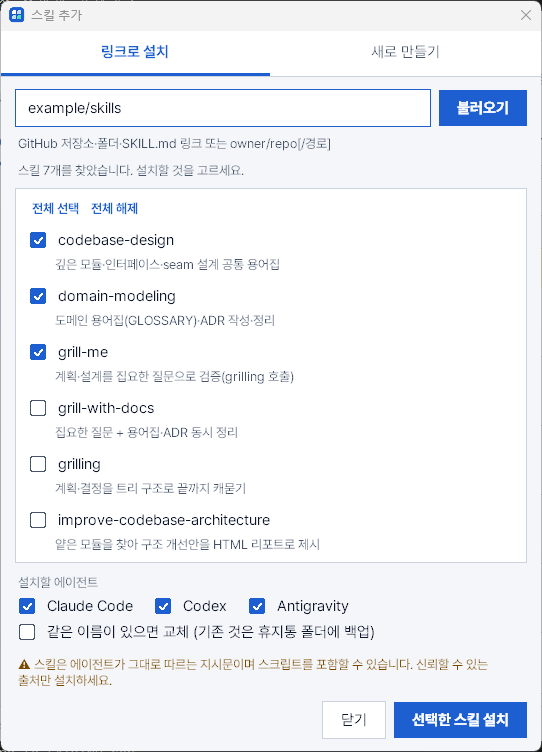
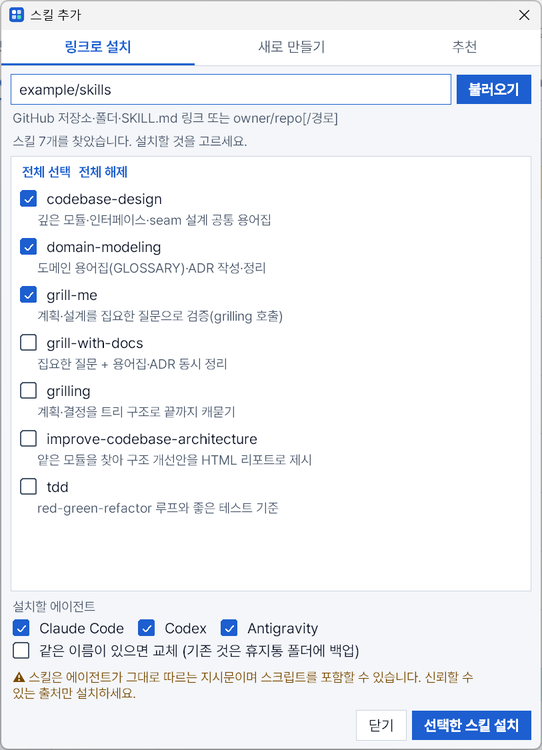
Docs: 추천 탭 설명과 스크린샷 추가
- README 기능 표와 사용 방법에 추천 탭을 적고, 라이트·다크 화면을 넣었다
- 개발 문서에 추천 목록을 새로 받는 방법과 거르는 기준, 테스트 파일을 적었다
- make_screenshots.py가 추천 탭을 찍고, 탭이 세 개가 된 링크로 설치·새로 만들기 화면을 다시 찍었다

diff --git a/docs/make_screenshots.py b/docs/make_screenshots.py
@@ -194,7 +194,15 @@ def main() -> None:
             dlg.name.set("release-notes")
             dlg.desc.set("Write release notes from merged pull requests")
             shot(dlg.win, "add-new")
+            dlg.show("추천")  # the bundled skills.sh snapshot; the demo skills above that it lists show as installed
+            shot(dlg.win, "add-recommended")
             dlg.close()
+            app.toggle_theme()
+            app.add_dialog()
+            app.dialog.show("추천")
+            shot(app.dialog.win, "add-recommended-dark")
+            app.dialog.close()
+            app.toggle_theme()
 
             grilling = next(x for x in app.data["Claude Code"] if x["name"] == "grilling")
             app.detail(grilling)

diff --git a/AGENTS.md b/AGENTS.md
@@ -33,6 +33,7 @@
 | 링크 해석, git 받기, 설치·업데이트·삭제·생성 | `skill_manager.py` |
 | Windows/macOS 차이(링크, 파일 열기, 글꼴, 화면 영역) | `platform_support.py` |
 | 카테고리 정의, 스킬별 한국어 설명 | `skill_categories.json`, `skill_notes.json` |
+| 추천 탭의 목록(읽기 `load_recommended`, 새로 만들기 `tools/update_recommend.py`) | `skill_manager.py`, `skill_recommend.json` |
 | 시작 메뉴 / macOS 앱 등록 | `install.py` |
 | 테스트 | `test_manager.py`(로직), `test_viewer.py`(`PanelTest`만 창을 띄움), `test_install.py`, `test_check.py` |
 
